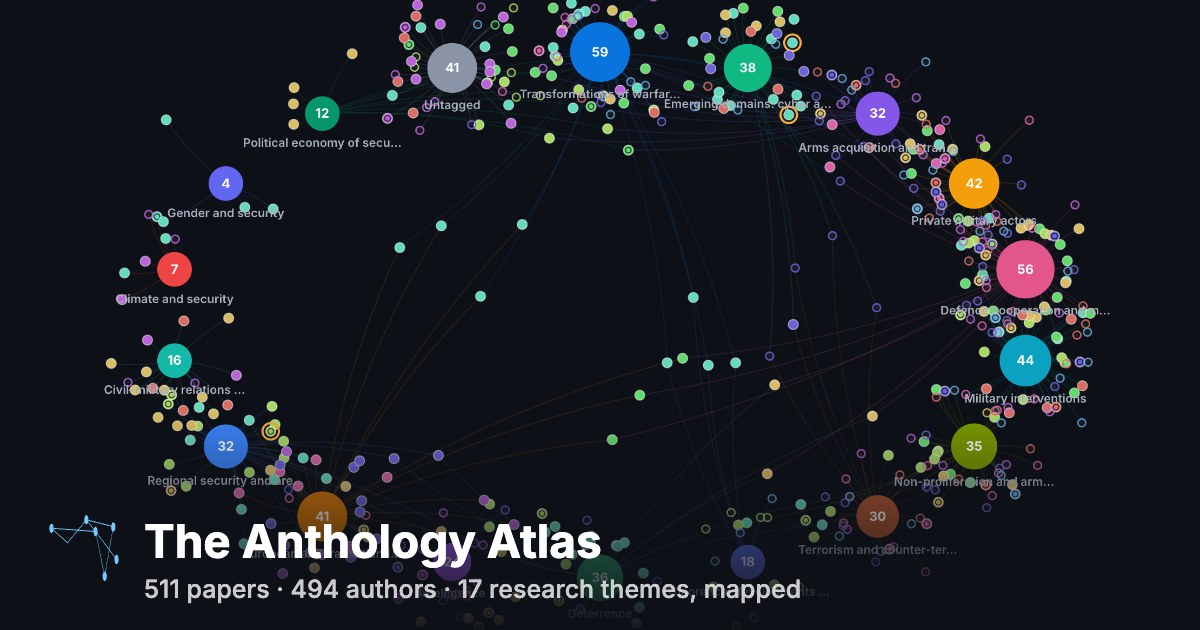
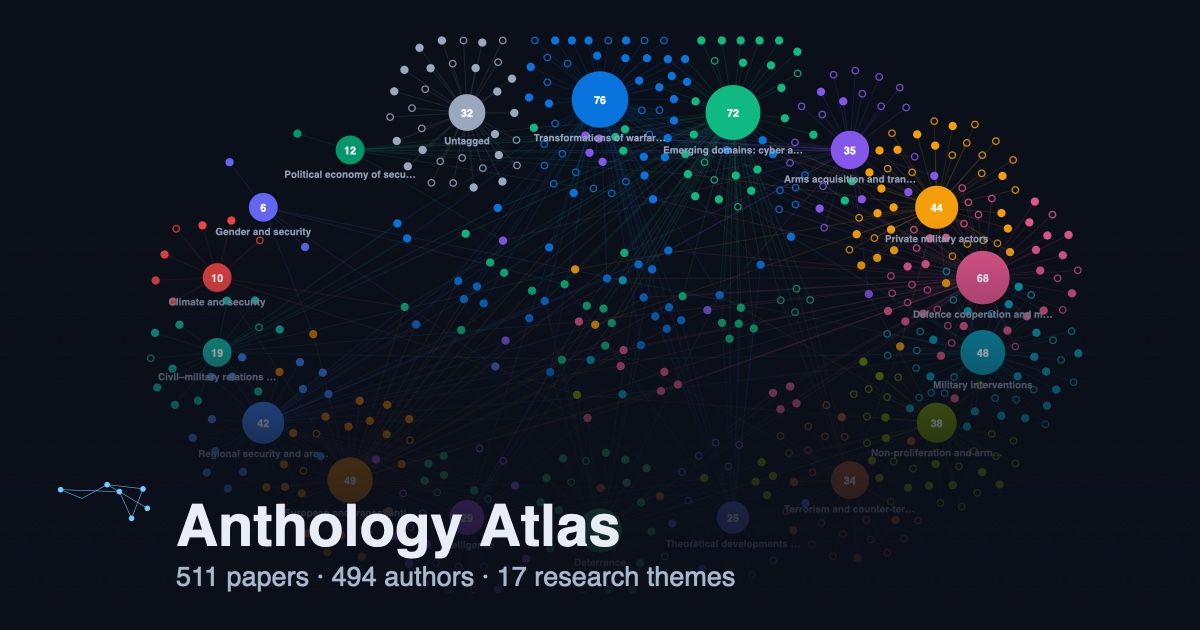
Atlas: draw the share card from the corpus, once per language
#1545. The English card was a photograph of the running map, composed by
hand (#1156), which is why it showed what the Atlas is rather than a
title on a background. A photograph cannot be translated, and the hub
labels are the reader's language since #1495, so the French and German
pages had house-template cards instead: correct, and not the same thing.

scripts/atlas_map_card.py redraws the map from anthologyAtlas.js using
the browser's own layout: the same mulberry32 seed, the same ring of
hubs, the same forces and damping, the same theme wheel, 320 ticks as
the page runs on load. It emits SVG, which make-share-cards.py
rasterises through the qlmanage pipeline every other card already uses,
so no dependency joins the build.

All three cards are generated now, English included, which is the point:
the card stops being a manual step that goes stale when an edition
lands. One command refreshes them:

  python3 scripts/make-share-cards.py anthology-atlas

The only liberty taken with the layout is a 0.9 scale about the centre
when drawing. The ring of hubs reaches the edges of the box it settles
in, so their labels would sit half off the card; simulating in a smaller
box instead would change the spacing the forces settle into.

Verified by looking at all three: the French card carries "Sans thème",
"Genre et sécurité", "Acteurs militaires privés" and the rest, under
"Atlas de l'Anthologie · 511 communications · 494 auteurs · 17 thèmes de
[…]

diff --git a/scripts/atlas_map_card.py b/scripts/atlas_map_card.py
@@ -1,0 +1,256 @@
+"""The Atlas share card, drawn from the corpus rather than captured by hand.
+
+The English card used to be a screenshot of the live map, composed by hand
+(#1156). That worked while the Atlas was English-only. #1495 published it in
+French and German, and a screenshot does not translate: the hub labels on the
+map are the reader's language now, so each locale needs its own picture.
+
+Rather than three hand captures that go stale the next time the corpus grows
+(#1545), this redraws the map from `anthologyAtlas.js` using the same layout
+the browser uses: same seeded PRNG, same ring of hubs, same forces, same
+colours. The result is an SVG, which the existing qlmanage pipeline in
+make-share-cards.py already knows how to rasterise, so no new dependency
+enters the build (§16.3).
+
+It will not be pixel-identical to any given moment of the live map, because
+the live one keeps simulating while you watch it. It is the same corpus under
+the same rules, which is what the card is claiming to show.
+"""
+from __future__ import annotations
+
+import json
+import math
+import subprocess
+from pathlib import Path
+
+ROOT = Path(__file__).resolve().parent.parent
+
+# Mirrors THEME_WHEEL in src/assets/js/anthology-atlas.js. A hub keeps its
+# colour across locales because the wheel is indexed by theme order, not name.
+THEME_WHEEL = [
+    "#0973de", "#10b981", "#8457ea", "#f59e0b", "#e2568c",
+    "#0aa2c0", "#7a9a01", "#b3562e", "#5867dd", "#2e9e6a",
+    "#a855f7", "#d97706", "#3b82f6", "#14b8a6", "#ef4444",
+    "#6366f1", "#059669",
+]
+INACTIVE = "#9aa7bd"      # --atlas-inactive, the Untagged hub
+INK = "#e8edf7"
+BG = "#0b0f1a"
+
+W, H = 1200, 630          # the card, and the box the simulation runs in
+BAND_TOP = (1200 - H) // 2  # qlmanage renders a square; sips keeps the middle
+
+
+def mulberry32(a: int):
+    """The PRNG from the browser, so the seeded layout matches."""
+    state = a & 0xFFFFFFFF
+
+    def rand() -> float:
+        nonlocal state
+        state = (state + 0x6D2B79F5) & 0xFFFFFFFF
+        t = state
+        t = (t ^ (t >> 15)) * (1 | t) & 0xFFFFFFFF
+        t = (t + ((t ^ (t >> 7)) * (61 | t) & 0xFFFFFFFF)) & 0xFFFFFFFF ^ t
+        return ((t ^ (t >> 14)) & 0xFFFFFFFF) / 4294967296
+
+    return rand
+
+
+def load_corpus() -> dict:
+    out = subprocess.run(
+        ["node", "-e",
+         "const m=require('./src/_data/anthologyAtlas.js');"
+         "process.stdout.write(JSON.stringify(typeof m==='function'?m():m))"],
+        cwd=ROOT, capture_output=True, text=True, check=True,
+    ).stdout
+    return json.loads(out)
+
+
+def build(corpus: dict, labels: dict) -> tuple[list, list]:
+    """Hubs and paper nodes, in the same order and shape as the browser's."""
+    hubs = []
+    for i, name in enumerate(corpus.get("themes", [])):
+        hubs.append({"id": f"t{i}", "type": "theme", "name": name, "wheel": i,
+                     "count": 0, "label": labels.get(name, name)})
+    by_theme = {h["name"]: h["id"] for h in hubs}
+    untagged = {"id": "untagged", "type": "untagged", "name": "Untagged",
+                "wheel": 0, "count": 0, "label": labels.get("__untagged__", "Untagged")}
+
+    nodes, need_untagged = [], False
+    for p in corpus.get("papers", []):
+        ids = [by_theme[t] for t in (p.get("themes") or []) if t in by_theme]
+        if not ids:
+            ids = ["untagged"]
+            need_untagged = True
+        nodes.append({"hubs": ids, "r": 4.6 if p.get("hasPage") else 3.6,
+                      "hasPage": bool(p.get("hasPage")),
+                      "x": 0.0, "y": 0.0, "vx": 0.0, "vy": 0.0})
+    if need_untagged:
+        hubs.append(untagged)
+
+    by_id = {h["id"]: h for h in hubs}
+    for n in nodes:
+        for hid in n["hubs"]:
+            by_id[hid]["count"] += 1
+    for h in hubs:
+        h["r"] = max(16.0, math.sqrt(h["count"]) * 3.6)
+    return hubs, nodes
+
+
+def layout(hubs: list, nodes: list, ticks: int = 320) -> None:
+    """seedPositions() then reheat(320), as the page does on load."""
+    rand = mulberry32(19172)          # the Papers lens seed
+    cx, cy = W / 2, H / 2
+    for i, h in enumerate(hubs):
+        ang = (i / len(hubs)) * math.pi * 2 - math.pi / 2
+        h["x"] = cx + math.cos(ang) * W * 0.36
+        h["y"] = cy + math.sin(ang) * H * 0.38
+    by_id = {h["id"]: h for h in hubs}
+    for n in nodes:
+        linked = [by_id[i] for i in n["hubs"]]
+        mx = sum(h["x"] for h in linked) / len(linked)
+        my = sum(h["y"] for h in linked) / len(linked)
+        n["x"] = mx + (rand() - 0.5) * 120
+        n["y"] = my + (rand() - 0.5) * 120
+
+    for _ in range(ticks):
+        for n in nodes:
+            for hid in n["hubs"]:
+                h = by_id[hid]
+                dx, dy = h["x"] - n["x"], h["y"] - n["y"]
+                d = math.hypot(dx, dy) or 1
+                f = (d - (h["r"] + 46)) * 0.004
+                n["vx"] += (dx / d) * f * 60
+                n["vy"] += (dy / d) * f * 60
+            n["vx"] += (W / 2 - n["x"]) * 0.0004
+            n["vy"] += (H / 2 - n["y"]) * 0.0004
+        for i in range(len(nodes)):
+            a = nodes[i]
+            for j in range(i + 1, len(nodes)):
+                b = nodes[j]
+                dx, dy = b["x"] - a["x"], b["y"] - a["y"]
+                d2 = dx * dx + dy * dy
+                if d2 > 4600 or d2 == 0:
+                    continue
+                d = math.sqrt(d2)
+                f = 24 / d2
+                dx /= d
+                dy /= d
+                a["vx"] -= dx * f * 60
+                a["vy"] -= dy * f * 60
+                b["vx"] += dx * f * 60
+                b["vy"] += dy * f * 60
+        for n in nodes:
+            for h in hubs:
+                dx, dy = n["x"] - h["x"], n["y"] - h["y"]
+                d = math.hypot(dx, dy) or 1
+                lo = h["r"] + 12
+                if d < lo:
+                    n["x"] = h["x"] + (dx / d) * lo
+                    n["y"] = h["y"] + (dy / d) * lo
+            n["vx"] *= 0.82
+            n["vy"] *= 0.82
+            n["x"] += n["vx"] * 0.016
+            n["y"] += n["vy"] * 0.016
+            n["x"] = max(10, min(W - 10, n["x"]))
+            n["y"] = max(10, min(H - 10, n["y"]))
+
+
+def esc(s: str) -> str:
+    return (str(s).replace("&", "&amp;").replace("<", "&lt;")
+            .replace(">", "&gt;").replace('"', "&quot;"))
+
+
+def hub_fill(h: dict) -> str:
+    return INACTIVE if h["type"] == "untagged" else THEME_WHEEL[h["wheel"] % len(THEME_WHEEL)]
+
+
+def svg(hubs: list, nodes: list, title: str, subtitle: str, mark: str) -> str:
+    by_id = {h["id"]: h for h in hubs}
+    o = BAND_TOP
+    parts = [
+        f'<svg xmlns="http://www.w3.org/2000/svg" viewBox="0 0 1200 1200" '
+        f'width="1200" height="1200">',
+        f'<rect width="1200" height="1200" fill="{BG}"/>',
+        # The ring of hubs reaches the edges of the box it was simulated in,
+        # so their labels would sit half off the card. A small scale about the
+        # centre keeps the layout faithful and brings the extremes inside the
+        # frame; the alternative, simulating in a smaller box, changes the
+        # spacing the forces settle into.
+        f'<g transform="translate({W / 2:.0f} {o + H / 2:.0f}) scale(0.9) '
+        f'translate({-W / 2:.0f} {-H / 2:.0f})">',
+    ]
+    # Edges first, so the dots sit on top, exactly as the canvas paints them.
+    for n in nodes:
+        for hid in n["hubs"]:
+            h = by_id[hid]
+            parts.append(
+                f'<line x1="{n["x"]:.1f}" y1="{n["y"]:.1f}" x2="{h["x"]:.1f}" '
+                f'y2="{h["y"]:.1f}" stroke="{hub_fill(h)}" stroke-width="1" '
+                f'stroke-opacity="0.14"/>')
+    for n in nodes:
+        fill = hub_fill(by_id[n["hubs"][0]])
+        if n["hasPage"]:
+            parts.append(f'<circle cx="{n["x"]:.1f}" cy="{n["y"]:.1f}" '
+                         f'r="{n["r"]}" fill="{fill}"/>')
+        else:
+            parts.append(f'<circle cx="{n["x"]:.1f}" cy="{n["y"]:.1f}" '
+                         f'r="{n["r"]}" fill="none" stroke="{fill}" '
+                         f'stroke-width="1.4" stroke-opacity="0.85"/>')
+    for h in hubs:
+        parts.append(f'<circle cx="{h["x"]:.1f}" cy="{h["y"]:.1f}" '
+                     f'r="{h["r"]:.1f}" fill="{hub_fill(h)}"/>')
+        parts.append(
+            f'<text x="{h["x"]:.1f}" y="{h["y"] + 5:.1f}" text-anchor="middle" '
+            f'font-family="Inter, sans-serif" font-size="12" font-weight="700" '
+            f'fill="#fff">{h["count"]}</text>')
+        label = h["label"]
+        if len(label) > 26:
+            label = label[:25] + "…"
+        parts.append(
+            f'<text x="{h["x"]:.1f}" y="{h["y"] + h["r"] + 15:.1f}" '
+            f'text-anchor="middle" font-family="Inter, sans-serif" '
+            f'font-size="11" font-weight="600" fill="#93a0b8">{esc(label)}</text>')
+    parts.append("</g>")
+    # Scrim under the type, so the words stay readable over a busy corner.
+    parts.append(
+        f'<defs><linearGradient id="scrim" x1="0" y1="0" x2="0" y2="1">'
+        f'<stop offset="0" stop-color="{BG}" stop-opacity="0"/>'
+        f'<stop offset="0.55" stop-color="{BG}" stop-opacity="0.72"/>'
+        f'<stop offset="1" stop-color="{BG}" stop-opacity="0.96"/>'
+        f'</linearGradient></defs>')
+    parts.append(f'<rect x="0" y="{o + H * 0.35:.0f}" width="1200" '
+                 f'height="{H * 0.65:.0f}" fill="url(#scrim)"/>')
+    parts.append(f'<g transform="translate(56 {o + H - 150})">{mark}</g>')
+    parts.append(
+        f'<text x="176" y="{o + H - 84}" font-family="Inter, sans-serif" '
+        f'font-size="58" font-weight="700" fill="{INK}">{esc(title)}</text>')
+    parts.append(
+        f'<text x="176" y="{o + H - 44}" font-family="Inter, sans-serif" '
+        f'font-size="27" fill="#aab6cc">{esc(subtitle)}</text>')
+    parts.append("</svg>")
+    return "\n".join(parts)
+
+
+def mark_svg(size: float = 96.0) -> str:
+    """The EISS network mark, scaled into a box, as the English card carries."""
+    raw = (ROOT / "src/assets/images/brand/logo-mark.svg").read_text(encoding="utf-8")
+    import re
+    vb = re.search(r'viewBox="([\d.\- ]+)"', raw)
+    inner = raw[raw.index(">", raw.index("<svg")) + 1:raw.rindex("</svg>")]
+    # Drop the accessibility titles: the card is one flat image, and the alt
+    # text belongs to the <img> that carries it, not to a group inside it.
+    inner = re.sub(r"<title.*?</title>|<desc.*?</desc>", "", inner, flags=re.S)
+    x0, y0, w, h = (float(v) for v in vb.group(1).split())
+    s = size / max(w, h)
+    return (f'<g transform="scale({s:.4f}) translate({-x0:.2f} {-y0:.2f})">'
+            f'{inner}</g>')
+
+
+def write_card(lang: str, title: str, subtitle: str, labels: dict,
+               dest: Path, ticks: int = 320) -> Path:
+    corpus = load_corpus()
+    hubs, nodes = build(corpus, labels)
+    layout(hubs, nodes, ticks=ticks)
+    dest.write_text(svg(hubs, nodes, title, subtitle, mark_svg()), encoding="utf-8")
+    return dest

diff --git a/scripts/make-share-cards.py b/scripts/make-share-cards.py
@@ -40,6 +40,7 @@ import tempfile
 from html import escape
 from pathlib import Path
 
+sys.path.insert(0, str(Path(__file__).resolve().parent))
 ROOT = Path(__file__).resolve().parent.parent
 OUT_DIR = ROOT / "src" / "assets" / "images"
 BRAND_DIR = ROOT / "src" / "assets" / "images" / "brand"
@@ -165,21 +166,6 @@ CARDS = [
         "de": {"eyebrow": "Rechtliches", "title": "Allgemeine Geschäftsbedingungen",
                "subtitle": "Anmeldung, Mitgliedschaft, Rückerstattungen, Mailings"},
     }},
-    # The Atlas card is unusual: the English one is a hand-made capture of the
-    # settled map itself (#1156), not a generated card, so it is not listed
-    # here and `make-share-cards.py` never overwrites it. The French and German
-    # pages (#1495) need a card of their own, because base.njk rewrites
-    # `-meta.jpg` to `-meta.<lang>.jpg` for a non-English page and a missing
-    # file previews as a blank. A generated card carrying the right words beats
-    # a snapshot carrying the wrong ones, so these two are generated in the
-    # house template until somebody captures the French and German maps by
-    # hand the way the English one was (#1545).
-    {"slug": "anthology-atlas", "i18n": {
-        "fr": {"eyebrow": "EISS", "title": "Atlas de l'Anthologie",
-               "subtitle": "Le corpus comme carte des thèmes et des auteurs"},
-        "de": {"eyebrow": "EISS", "title": "Anthologie-Atlas",
-               "subtitle": "Das Korpus als Karte der Themen und Personen"}}},
-
     {"slug": "NetSecSchool", "i18n": {
         "en": {"eyebrow": "Programme", "title": "NetSec Summer School",
                "subtitle": "Early-career scholars summer school"},
@@ -537,6 +523,44 @@ def dest_filename(slug: str, lang: str) -> str:
     return f"{slug}-meta.jpg" if lang == "en" else f"{slug}-meta.{lang}.jpg"
 
 
+def make_atlas_map_cards() -> None:
+    """The Atlas card is the map itself, redrawn per locale (#1545).
+
+    Every other card here is the house template: lockup, title, subtitle. The
+    Atlas one is a picture of the corpus, because that is what sells the map,
+    and it used to be a hand capture of the running page (#1156). A capture
+    cannot be translated, and the hub labels are the reader's language since
+    #1495, so all three are generated from the corpus by
+    scripts/atlas_map_card.py using the layout the browser uses."""
+    from atlas_map_card import load_corpus, write_card
+
+    corpus = load_corpus()
+    cat = json.loads(subprocess.run(
+        ["node", "-e",
+         "const i=require('./src/_data/i18n.js');const d=typeof i==='function'?i():i;"
+         "process.stdout.write(JSON.stringify({en:d.en.atlas,fr:d.fr.atlas,de:d.de.atlas}))"],
+        cwd=ROOT, capture_output=True, text=True, check=True).stdout)
+    themes = json.loads(subprocess.run(
+        ["node", "-e", "const m=require('./src/_data/atlasThemePages.js');"
+         "process.stdout.write(JSON.stringify(m()))"],
+        cwd=ROOT, capture_output=True, text=True, check=True).stdout)
+
+    papers = len(corpus.get("papers", []))
+    authors = len(corpus.get("authors", []))
+    theme_count = len(corpus.get("themes", []))
+    work = Path(tempfile.mkdtemp(prefix="atlas-map-"))
+    for lang in ("en", "fr", "de"):
+        a = cat[lang]
+        labels = {t["name"]: (t.get("label") or {}).get(lang, t["name"]) for t in themes}
+        labels["__untagged__"] = a["untagged"]
+        subtitle = (f"{papers} {a['papers']} · {authors} {a['authors']} · "
+                    f"{theme_count} {a['statThemes']}")
+        svg_path = write_card(lang, a["title"], subtitle, labels,
+                              work / f"atlas-map-{lang}.svg")
+        out = rasterize(svg_path, dest_filename("anthology-atlas", lang))
+        print(f"  \u2713 {out.relative_to(ROOT)}  ({out.stat().st_size // 1024} KB)")
+
+
 def main() -> None:
     OUT_DIR.mkdir(parents=True, exist_ok=True)
     # Optional slug filter: `make-share-cards.py news anthology` regenerates
@@ -544,6 +568,8 @@ def main() -> None:
     # drift by a few bytes between machines, so regenerating everything would
     # dirty cards you didn't mean to change). No args → regenerate all.
     only = set(sys.argv[1:])
+    if not only or "anthology-atlas" in only:
+        make_atlas_map_cards()
     lockup = build_lockup()
     motif = build_motif()
     font_face = inter_face()

diff --git a/CHANGELOG.md b/CHANGELOG.md
@@ -120,6 +120,8 @@ At v2.13.0r (formerly v2.21.0) we adopted the NetSec-style versioning rules spel
 
 ### Changed
 
+- **The Atlas share card is the map itself again, in all three languages.** The English card was a photograph of the running map, composed by hand, which is why it showed what the Atlas actually is rather than a title on a background. A photograph cannot be translated, and the hub labels on the map are the reader's language now, so the French and German pages had been given plainer title cards instead. All three are now drawn from the corpus by the build, using the same layout, forces and colours the page itself uses, so each language gets its own map with its own labels and figures, and a new edition refreshes all three with one command. Closes [#1545](https://github.com/EISSeuropa/EISSeuropa.github.io/issues/1545).
+
 - **The licence block has gone from the Anthology as well as the map.** It said a third time what the footer and the page's own machine-readable declaration already say, and on a page that opens with the corpus figures, the citation panel and the coverage bars, a third statement of the licence was one block too many. The footer states the licence on every page and the head still declares it, so the position is unchanged and only the repetition is gone.
 
 - **The Anthology says which editions are finished instead of calling itself a preview.** The page opened with an early-access notice covering everything on it, which is a label that can never come off, because the corpus grows by an edition a year and the older ones are recovered by hand. A reader meets it every visit, learns it never changes, and stops reading it, while it discounts the four editions that are all but done. The notice now names both sides: the 2023 to 2026 editions at 94% abstract coverage or better, and the 2017 to 2022 editions still filling in with 195 abstracts of 270 outstanding. The figures come from the same derivation as the coverage bars below them, so the sentence cannot drift from the bars, and a build gate fails if an edition the page calls finished slips back. The Atlas keeps its Beta pill: the corpus and the map are declared separately, and the map is still early-stage work. Closes [#1499](https://github.com/EISSeuropa/EISSeuropa.github.io/issues/1499).
